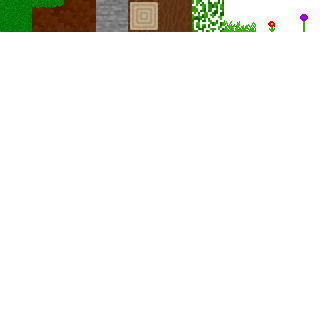
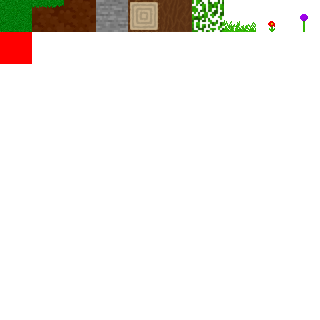
this is becoming a mess. reminder to check debug block positions.

Changed region(s): [[0.0, 0.0938, 0.125, 0.2188]]

diff --git a/src/World.cpp b/src/World.cpp
@@ -69,6 +69,13 @@ void Chunk::generateMesh()
     std::vector<uint16_t>* targetIndexVector;
 
     uint32_t solidBlockCount = 16328 - mData.airBlockCount - mData.transparentBlockCount;
+
+
+    mMeshVertices.clear();
+    mMeshIndices.clear();
+    mTransparentMeshVertices.clear();
+    mTransparentMeshIndices.clear();
+    
     mMeshVertices.reserve(solidBlockCount / 2 * 32);
     mMeshIndices.reserve(solidBlockCount * 36);
 
@@ -82,7 +89,6 @@ void Chunk::generateMesh()
             
             BLOCKTYPE bType = (BLOCKTYPE)data[static_cast<int>(x * CHUNKHEIGHT * CHUNKSIZE + y * CHUNKSIZE + z)];
             if (bType == AIR) continue;
-
             uint8_t frontTexture = getBlockTextureIndex(bType, BLOCKFACE::FRONT);
             uint8_t backTexture = getBlockTextureIndex(bType, BLOCKFACE::BACK);
             uint8_t leftTexture = getBlockTextureIndex(bType, BLOCKFACE::LEFT);
@@ -135,6 +141,7 @@ void Chunk::generateMesh()
                     targetVertexVector->push_back(Vertex{ glm::vec3(x, y, z), glm::vec3(0.0f, 1.0f, 0.0f), glm::vec2((frontTexture % 10) * 0.1f, (frontTexture / 10) * 0.1f) });
                     targetVertexVector->push_back(Vertex{ glm::vec3(x + 1.0f,  y, z), glm::vec3(0.0f, 1.0f, 0.0f), glm::vec2((frontTexture % 10) * 0.1f + 0.1f, (frontTexture / 10) * 0.1f) });
                     targetVertexVector->push_back(Vertex{ glm::vec3(x + 1.0f,  y + 1.0f, z), glm::vec3(0.0f, 1.0f, 0.0f), glm::vec2((frontTexture % 10) * 0.1f + 0.1f, (frontTexture / 10) * 0.1f + 0.1f) });
+
 
                     const size_t count = Indices.size();
                     const size_t offset = targetIndexVector->size();
@@ -261,15 +268,48 @@ void Chunk::generateMesh()
 
 void Chunk::createGPUBuffers()
 {
+    // Destroy old opaque buffers if they exist
+    if (mVertexBuffer != VK_NULL_HANDLE) {
+        vkDestroyBuffer(GraphicsEngine::getDevice(), mVertexBuffer, nullptr);
+        vkFreeMemory(GraphicsEngine::getDevice(), mVertexBufferMemory, nullptr);
+        mVertexBuffer = VK_NULL_HANDLE;
+        mVertexBufferMemory = VK_NULL_HANDLE;
+    }
+
+    if (mIndexBuffer != VK_NULL_HANDLE) {
+        vkDestroyBuffer(GraphicsEngine::getDevice(), mIndexBuffer, nullptr);
+        vkFreeMemory(GraphicsEngine::getDevice(), mIndexBufferMemory, nullptr);
+        mIndexBuffer = VK_NULL_HANDLE;
+        mIndexBufferMemory = VK_NULL_HANDLE;
+    }
+
+    // Create new opaque buffers
     GraphicsEngine::createVertexBuffer(mMeshVertices, mVertexBuffer, mVertexBufferMemory);
     GraphicsEngine::createIndexBuffer(mMeshIndices, mIndexBuffer, mIndexBufferMemory);
 
+    // Destroy old transparent buffers if they exist
     if (!mTransparentMeshVertices.empty())
     {
+        if (mTransparentVertexBuffer != VK_NULL_HANDLE) {
+            vkDestroyBuffer(GraphicsEngine::getDevice(), mTransparentVertexBuffer, nullptr);
+            vkFreeMemory(GraphicsEngine::getDevice(), mTransparentVertexBuffferMemory, nullptr);
+            mTransparentVertexBuffer = VK_NULL_HANDLE;
+            mTransparentVertexBuffferMemory = VK_NULL_HANDLE;
+        }
+
+        if (mTransparentIndexBuffer != VK_NULL_HANDLE) {
+            vkDestroyBuffer(GraphicsEngine::getDevice(), mTransparentIndexBuffer, nullptr);
+            vkFreeMemory(GraphicsEngine::getDevice(), mTransparentIndexBufferMemory, nullptr);
+            mTransparentIndexBuffer = VK_NULL_HANDLE;
+            mTransparentIndexBufferMemory = VK_NULL_HANDLE;
+        }
+
+        // Create new transparent buffers
         GraphicsEngine::createVertexBuffer(mTransparentMeshVertices, mTransparentVertexBuffer, mTransparentVertexBuffferMemory);
         GraphicsEngine::createIndexBuffer(mTransparentMeshIndices, mTransparentIndexBuffer, mTransparentIndexBufferMemory);
     }
 }
+
 
 void Chunk::Render(VkCommandBuffer commandBuffer) const
 {
@@ -334,58 +374,14 @@ bool Chunk::hasGPUbuffers() const
 
 ChunkData::ChunkData(glm::ivec2 chunkCoords)
 {
-    pData = new uint8_t[CHUNKSIZE * CHUNKHEIGHT * CHUNKSIZE];
+    pData = std::make_unique<uint8_t[]>(CHUNKSIZE * CHUNKHEIGHT * CHUNKSIZE);
+    mMissingBlocks = std::make_unique<std::unordered_map<glm::ivec3, BLOCKTYPE>>();
+
     allocateChunkData(chunkCoords);
 }
 
 ChunkData::~ChunkData()
 {
-    delete[] pData; 
-}
-
-ChunkData::ChunkData(const ChunkData& other)
-    : airBlockCount(other.airBlockCount), transparentBlockCount(other.transparentBlockCount)
-{
-    if (other.pData) {
-        pData = new uint8_t[CHUNKSIZE * CHUNKSIZE * CHUNKHEIGHT];
-        std::copy(other.pData, other.pData + CHUNKSIZE * CHUNKSIZE * CHUNKHEIGHT, pData);
-    }
-    else {
-        pData = nullptr;
-    }
-}
-
-ChunkData& ChunkData::operator=(const ChunkData& other)
-{
-    if (this == &other)
-        return *this;
-
-    airBlockCount = other.airBlockCount;
-    transparentBlockCount = other.transparentBlockCount;
-
-    if (other.pData) {
-        if (!pData) {
-            pData = new uint8_t[CHUNKSIZE * CHUNKSIZE * CHUNKHEIGHT];
-        }
-        std::copy(other.pData, other.pData + CHUNKSIZE * CHUNKSIZE * CHUNKHEIGHT, pData);
-    }
-    else {
-        delete[] pData;
-        pData = nullptr;
-    }
-
-    return *this;
-}
-
-ChunkData::ChunkData(ChunkData&& other) noexcept
-    : pData(other.pData),
-    airBlockCount(other.airBlockCount),
-    transparentBlockCount(other.transparentBlockCount),
-    mMissingBlocks(std::move(other.mMissingBlocks))
-{
-    other.pData = nullptr;
-    other.airBlockCount = 0;
-    other.transparentBlockCount = 0;
 }
 
 bool ChunkData::allocateChunkData(glm::ivec2 chunkCoords)
@@ -425,14 +421,12 @@ bool ChunkData::allocateChunkData(glm::ivec2 chunkCoords)
     generateGrass(chunkCoords);
     generateTrees(chunkCoords);
 
-    std::unordered_map<glm::ivec3, BLOCKTYPE>* address = &mMissingBlocks;
-    std::cout << address << "\n";
     return true;
 }
 
 uint8_t* ChunkData::getData()
 {
-    return pData;
+    return pData.get();
 }
 
 bool ChunkData::isFaceVisible(glm::ivec3 blockPos, BLOCKFACE face)
@@ -532,7 +526,7 @@ void ChunkData::placeTree(glm::ivec3 baseCoords)
             {
                 idx = getBlockIndex({ baseCoords.x + x, baseCoords.y - y, baseCoords.z + z });
                 if (idx == -1)
-                    mMissingBlocks.emplace(std::make_pair(glm::ivec3(baseCoords.x + x, baseCoords.y - y, baseCoords.z + z), LEAVES));
+                    mMissingBlocks->emplace(std::make_pair(glm::ivec3(baseCoords.x + x, baseCoords.y - y, baseCoords.z + z), DEBUGBLOCK));
 
                 else if (y == 6 && abs(x) + abs(z) == 1)
                     pData[idx] = LEAVES;
@@ -620,15 +614,19 @@ void ChunkData::generateGrass(glm::ivec2 chunkCoords)
 
 std::unordered_map<glm::ivec3, BLOCKTYPE>* Chunk::getMissingBlocks()
 {
-    return &mData.mMissingBlocks;
+    return mData.mMissingBlocks.get();
 }
 
 void Chunk::updateBlock(glm::ivec3 blockCoords, BLOCKTYPE bType)
 {
-    mData.getData()[mData.getBlockIndex(blockCoords)] = bType;
-    if (transparentBlocks.count(bType) != 0) mData.transparentBlockCount++;
-
-    std::cout << "Block update!\n";
+    int idx = mData.getBlockIndex(blockCoords);
+    if (idx != -1)
+    {
+        mData.getData()[idx] = bType;
+        if (transparentBlocks.count(bType) != 0) mData.transparentBlockCount++;
+        std::cout << "Block update at: X: " << blockCoords.x << " Y: " << blockCoords.y << " Z: " << blockCoords.z << "\n";
+    }
+    
 }
 
 bool Chunk::getNeedRemeshStatus() const
@@ -673,7 +671,11 @@ void Planet::Update(glm::vec2 playerPosition, uint32_t currentFrame)
     lastChunk = { chunkX, chunkY };
 
     for (auto& chunk : mChunks)
-        if (chunk.second.getNeedRemeshStatus()) chunk.second.generateMesh();
+        if (chunk.second.getNeedRemeshStatus())
+        {
+            chunk.second.generateMesh();
+            chunk.second.createGPUBuffers();
+        }
 
 }
 
@@ -784,7 +786,6 @@ void Planet::fillMissingBlocks()
     for (auto& chunkPair : mChunks)
     {
         std::unordered_map<glm::ivec3, BLOCKTYPE>* blockMap = chunkPair.second.getMissingBlocks();
-        std::cout << blockMap << "\n";
         if (blockMap->empty()) continue;
         for (auto& blockPair : *blockMap)
         {

diff --git a/src/World.h b/src/World.h
@@ -13,7 +13,7 @@ constexpr unsigned short int CHUNKHEIGHT = 64;
 constexpr uint8_t MAX_FRAMES_IN_FLIGHT = 3;
 
 enum BLOCKTYPE {
-	AIR, GRASS, DIRT, STONE, WOOD, LEAVES, TALLGRASS, REDFLOWER, PURPLEFLOWER
+	AIR, GRASS, DIRT, STONE, WOOD, LEAVES, TALLGRASS, REDFLOWER, PURPLEFLOWER, DEBUGBLOCK
 };
 enum BLOCKFACE {
 	FRONT, BACK, RIGHT, LEFT, TOP, BOTTOM
@@ -87,6 +87,8 @@ static uint8_t getBlockTextureIndex(BLOCKTYPE bType, BLOCKFACE bFace)
 		return 8;
 	case PURPLEFLOWER:
 		return 9;
+	case DEBUGBLOCK:
+		return 10;
 	default:
 		return 99;
 	}
@@ -98,10 +100,11 @@ public:
 	ChunkData(glm::ivec2 chunkCoords);
 	~ChunkData();
 
-	ChunkData(const ChunkData&);
-	ChunkData& operator=(const ChunkData&);
+	ChunkData(const ChunkData&) = delete;
+	ChunkData& operator=(const ChunkData&) = delete;
 
-	ChunkData(ChunkData&& other) noexcept;
+	ChunkData(ChunkData&&) noexcept = default;
+	ChunkData& operator=(ChunkData&&) noexcept = default;
 
 	bool allocateChunkData(glm::ivec2 chunkCoords);
 	uint8_t* getData();
@@ -115,10 +118,10 @@ public:
 	void generateGrass(glm::ivec2 chunkCoords);
 	unsigned int airBlockCount;
 	unsigned int transparentBlockCount;
-	std::unordered_map <glm::ivec3, BLOCKTYPE>  mMissingBlocks;
+	std::unique_ptr<std::unordered_map<glm::ivec3, BLOCKTYPE>> mMissingBlocks;
 
 private:
-	uint8_t* pData;
+	std::unique_ptr<uint8_t[]> pData;
 };
 
 class Chunk
@@ -198,6 +201,6 @@ public:
 private:
 	std::unordered_map<glm::ivec2, Chunk> mChunks; 
 	std::array<ChunkFreeList, MAX_FRAMES_IN_FLIGHT> mAwaitngDestruction;
-	const uint8_t renderDistance = 0;
+	const uint8_t renderDistance = 3;
 	
 };
